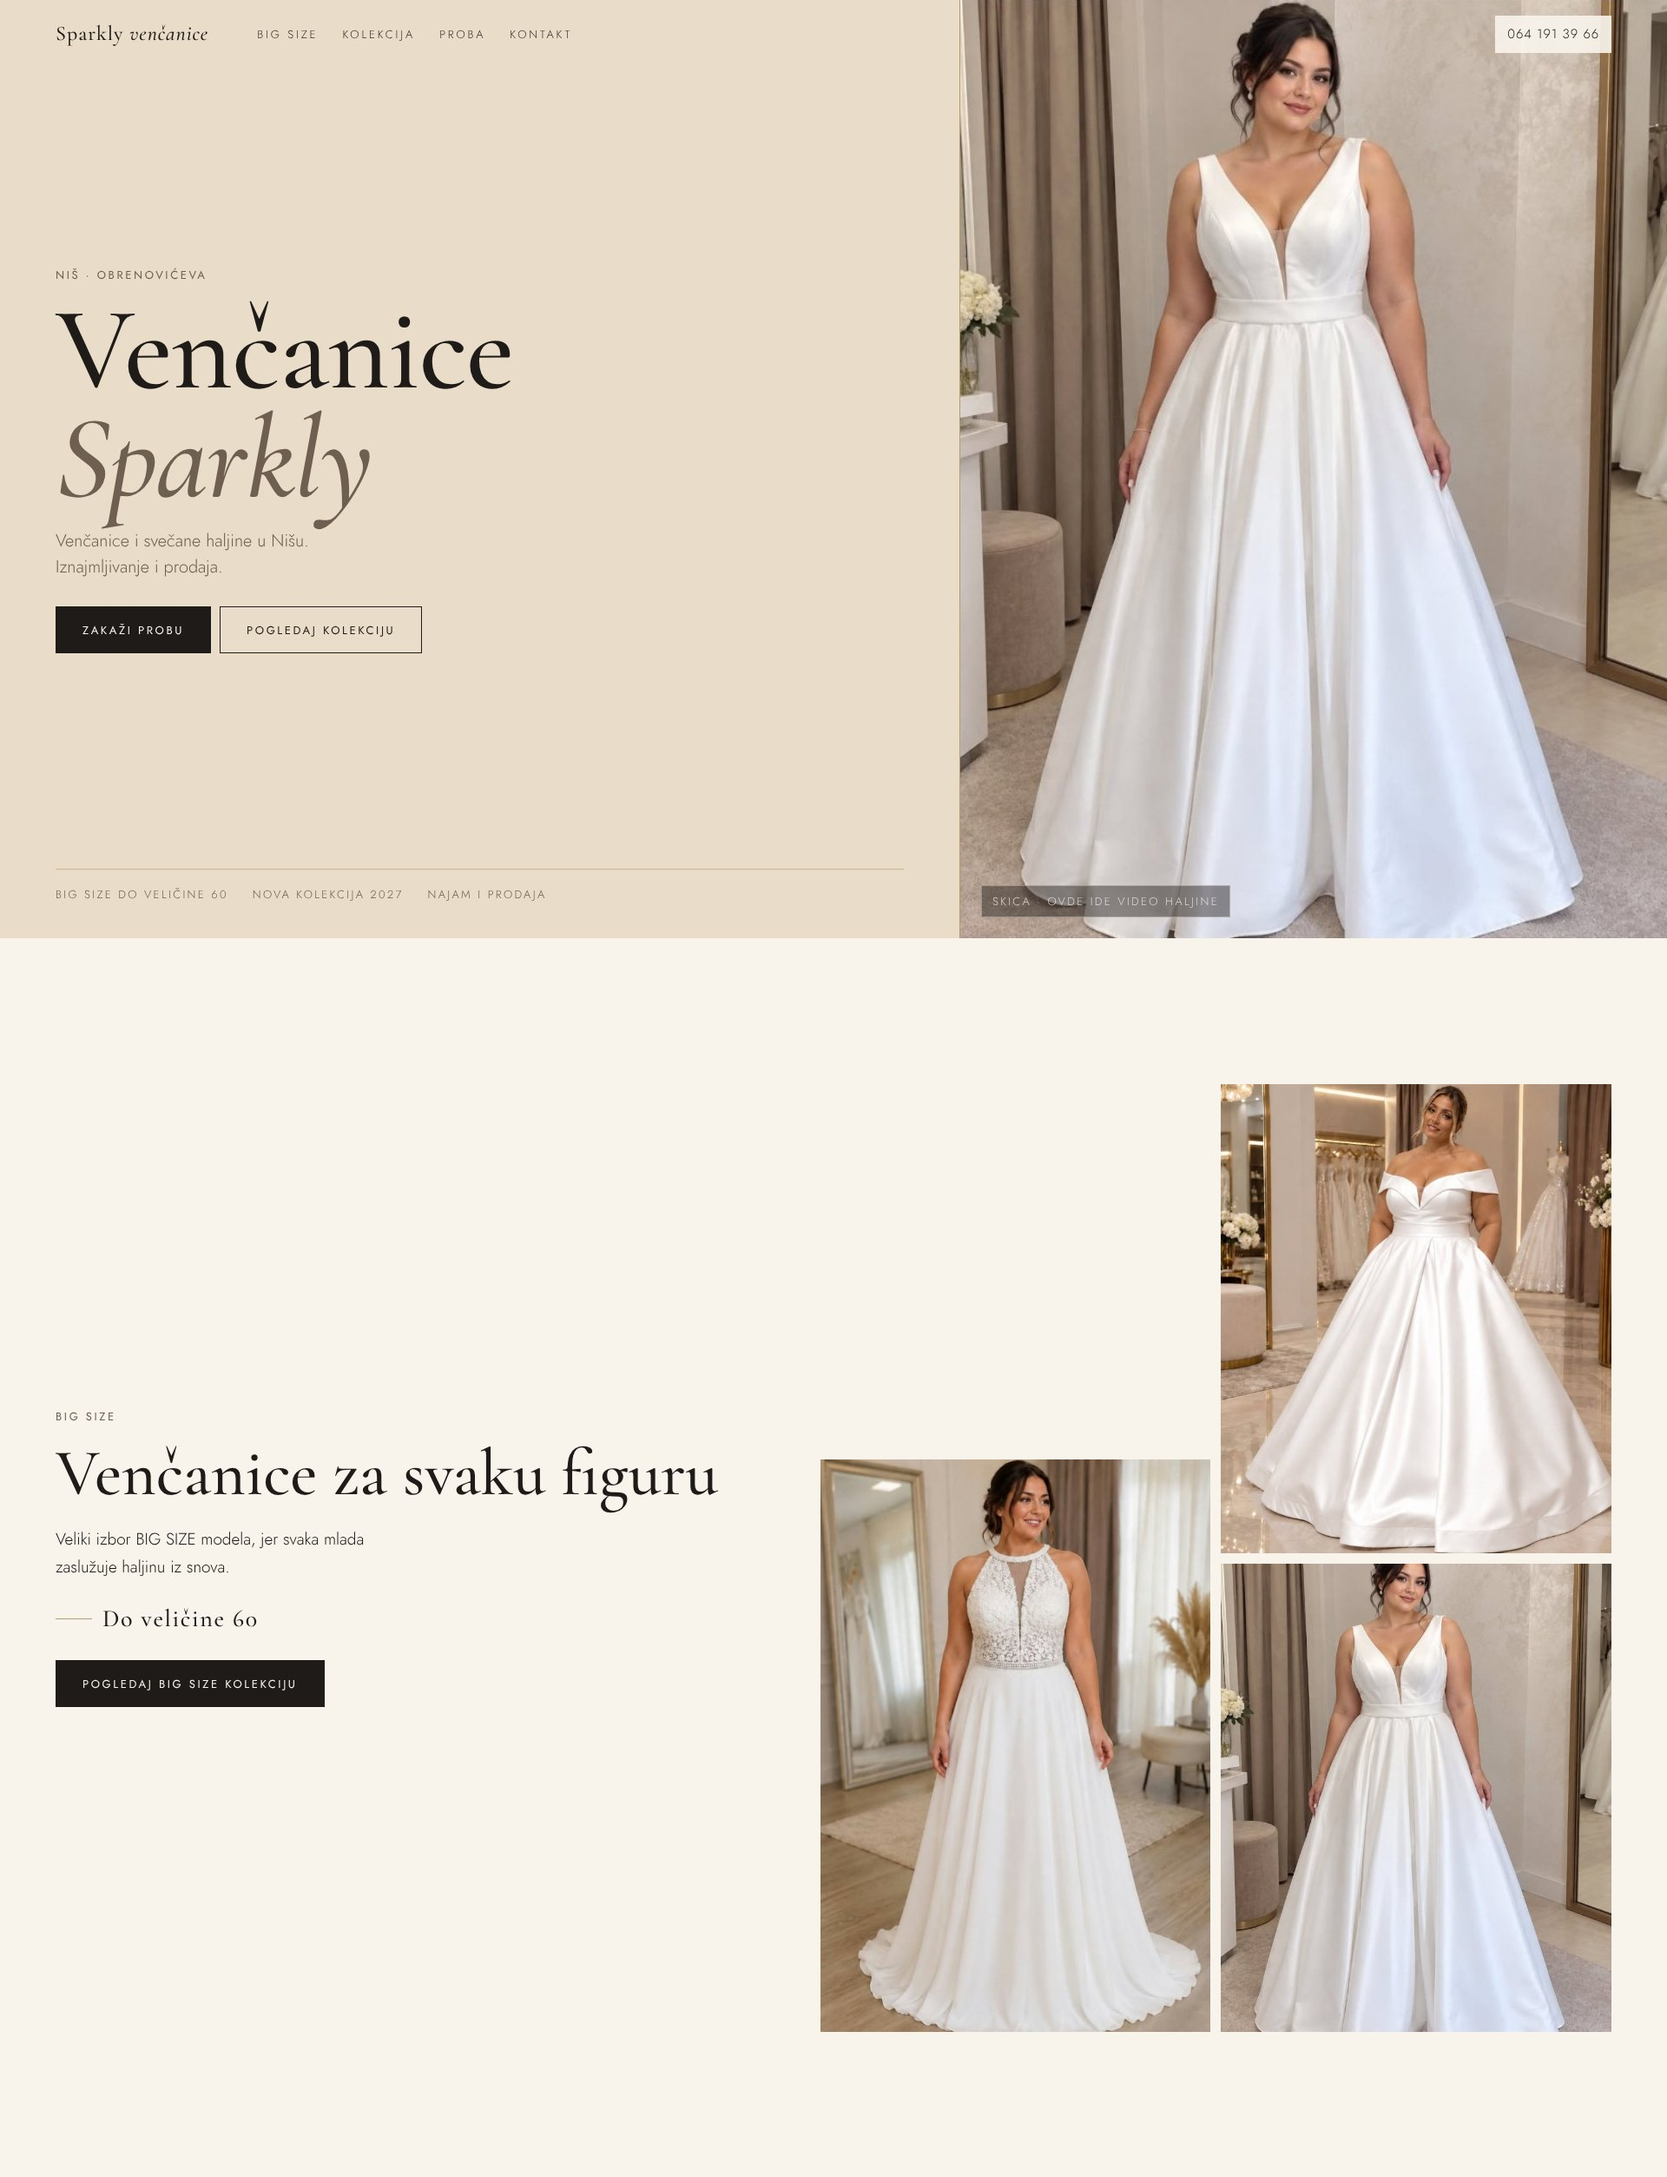
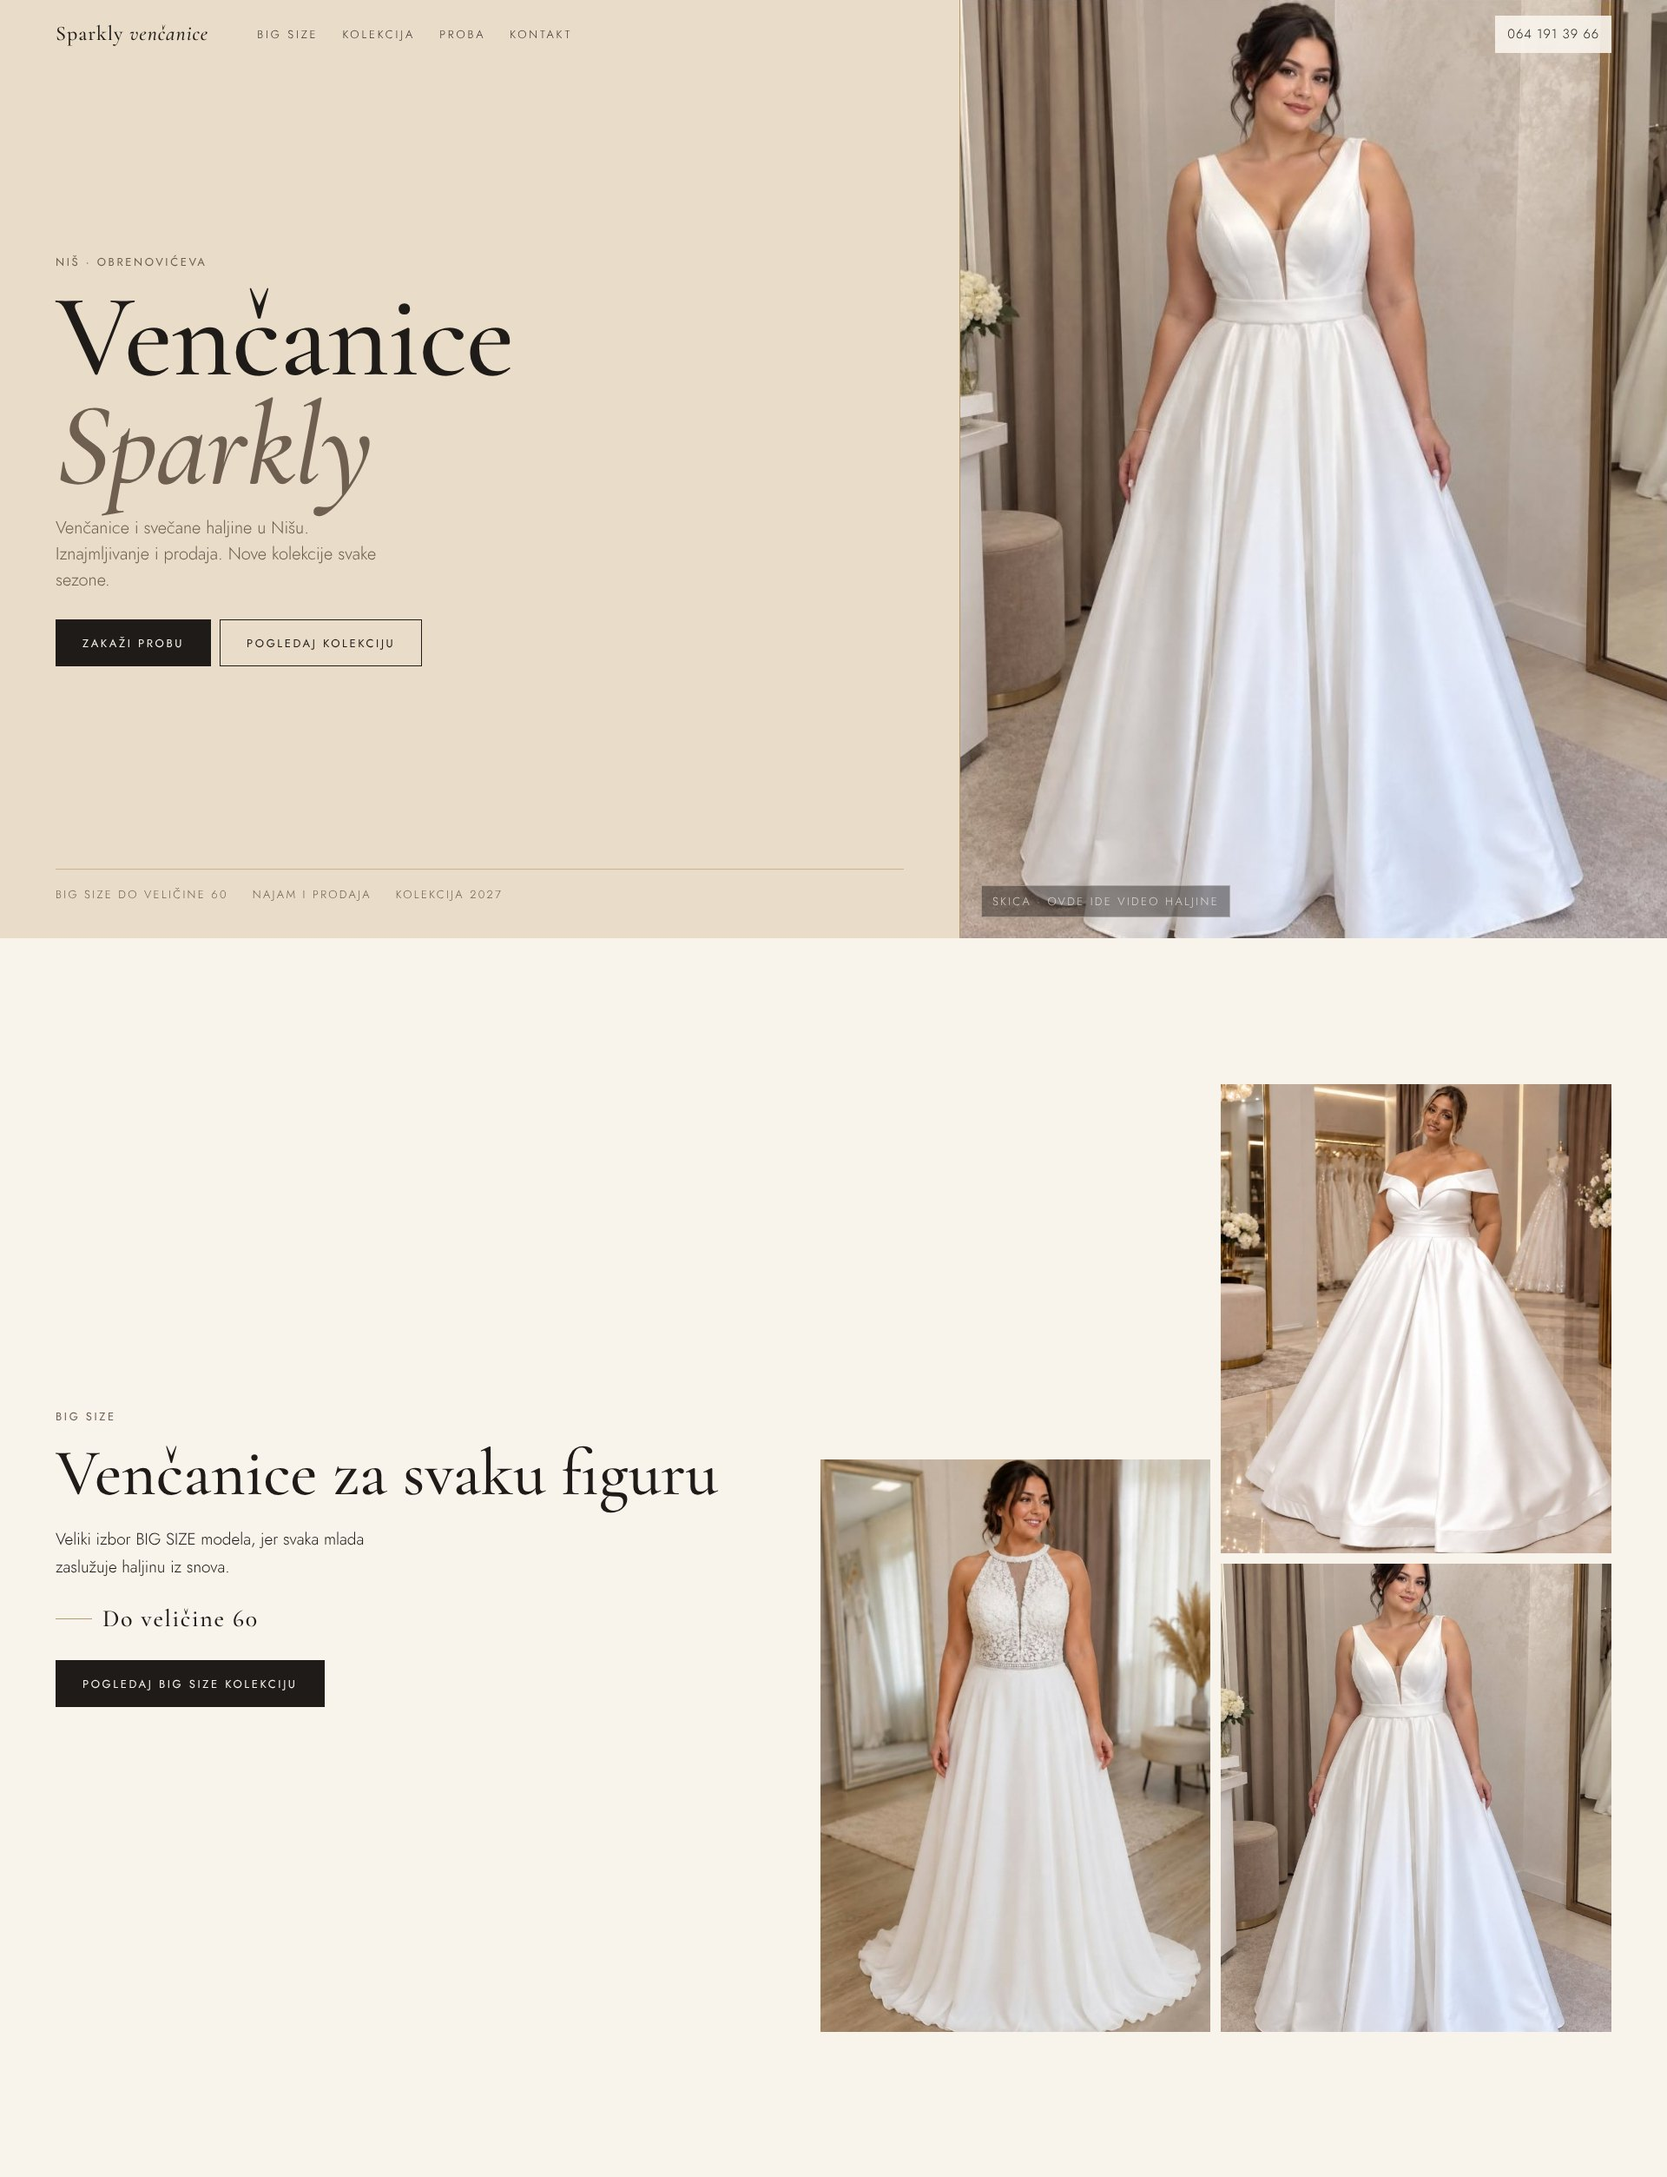
Sparkly: add 'Nove kolekcije svake sezone' as chosen by the owner
Claude-Session: https://claude.ai/code/session_01UWZxjZDZsRNAHBMSR73c6z

Changed region(s): [[0.0312, 0.1245, 0.3125, 0.3113], [0.1562, 0.2801, 0.2188, 0.3113]]

diff --git a/sites/sparkly/index.html b/sites/sparkly/index.html
@@ -4,7 +4,7 @@
 <meta charset="utf-8">
 <meta name="viewport" content="width=device-width, initial-scale=1, viewport-fit=cover">
 <title>Venčanice Sparkly — venčanice i svečane haljine u Nišu</title>
-<meta name="description" content="Salon venčanica Sparkly, Obrenovićeva, Niš. Iznajmljivanje i prodaja venčanica i svečanih haljina, veliki izbor BIG SIZE modela do veličine 60. Zakažite probu: 064 191 39 66.">
+<meta name="description" content="Salon venčanica Sparkly, Obrenovićeva, Niš. Iznajmljivanje i prodaja venčanica i svečanih haljina, veliki izbor BIG SIZE modela do veličine 60, nove kolekcije svake sezone. Zakažite probu: 064 191 39 66.">
 <meta name="theme-color" content="#F8F4EC">
 <link rel="preconnect" href="https://fonts.googleapis.com">
 <link rel="preconnect" href="https://fonts.gstatic.com" crossorigin>
@@ -76,7 +76,7 @@ button{font:inherit;color:inherit}
   .hero .vid-note{right:auto;left:24px;top:auto;bottom:24px;background:rgba(30,27,24,.45)}
   .top{color:var(--ink);justify-content:flex-start;gap:clamp(28px,3vw,56px)}
   .top nav{gap:28px}
-  .hero-facts{display:flex!important;position:absolute;z-index:1;left:var(--m);right:calc(var(--pw) + var(--m));bottom:40px;gap:28px;padding:18px 0 0;border-top:1px solid rgba(183,154,107,.6);list-style:none;margin:0;font-size:.8125rem;letter-spacing:.18em;text-transform:uppercase;color:var(--taupe-ink)}
+  .hero-facts{display:flex!important;position:absolute;z-index:1;left:var(--m);right:calc(var(--pw) + var(--m));bottom:40px;gap:28px;padding:18px 0 0;white-space:nowrap;border-top:1px solid rgba(183,154,107,.6);list-style:none;margin:0;font-size:.8125rem;letter-spacing:.18em;text-transform:uppercase;color:var(--taupe-ink)}
   .top .tel{margin-left:auto;background:rgba(248,244,236,.9);padding:9px 14px}
 }
 .hero-facts{display:none}
@@ -243,11 +243,11 @@ figcaption{margin-top:10px}
     <video autoplay muted loop playsinline preload="none" poster="img/big-2.jpg" aria-hidden="true"><source src="video/hero.mp4" type="video/mp4"></video>
     <span class="vid-note">Skica · ovde ide video haljine</span>
   </div>
-  <ul class="hero-facts" aria-hidden="true"><li>Big size do veličine 60</li><li>Nova kolekcija 2027</li><li>Najam i prodaja</li></ul>
+  <ul class="hero-facts" aria-hidden="true"><li>Big size do veličine 60</li><li>Najam i prodaja</li><li>Kolekcija 2027</li></ul>
   <div class="hero-in">
     <p class="caps rise">Niš · Obrenovićeva</p>
     <h1 id="h1" class="rise">Venčanice<br><i>Sparkly</i></h1>
-    <p class="sub rise">Venčanice i svečane haljine u Nišu. Iznajmljivanje i prodaja.</p>
+    <p class="sub rise">Venčanice i svečane haljine u Nišu. Iznajmljivanje i prodaja. Nove kolekcije svake sezone.</p>
     <div class="acts rise">
       <a class="btn btn--light" href="viber://chat?number=%2B381641913966">Zakaži probu</a>
       <a class="btn btn--ghost-light" href="#kolekcija">Pogledaj kolekciju</a>
@@ -317,7 +317,7 @@ figcaption{margin-top:10px}
   <div><p class="caps rise">Zašto Sparkly</p><h2 id="why-h" class="rise">Zašto mlade biraju nas</h2></div>
   <ul>
     <li class="rise"><b aria-hidden="true"></b><span>BIG SIZE venčanice do veličine 60</span></li>
-    <li class="rise"><b aria-hidden="true"></b><span>Venčanice i svečane haljine na jednom mestu</span></li>
+    <li class="rise"><b aria-hidden="true"></b><span>Nove kolekcije svake sezone</span></li>
     <li class="rise"><b aria-hidden="true"></b><span>Iznajmljivanje ili kupovina, kako vama odgovara</span></li>
   </ul>
 </section>
